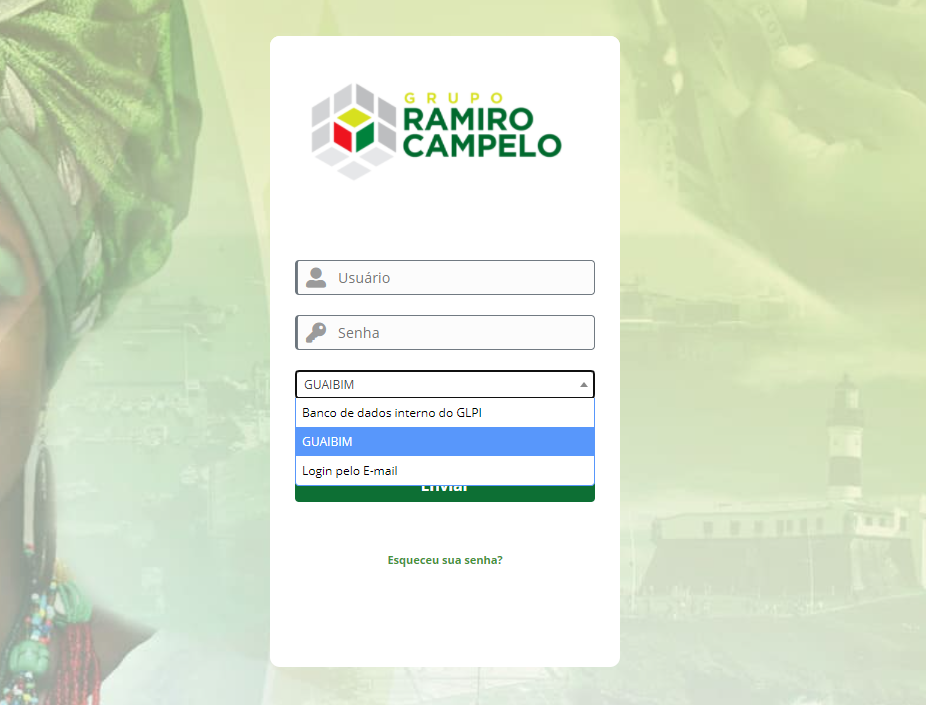
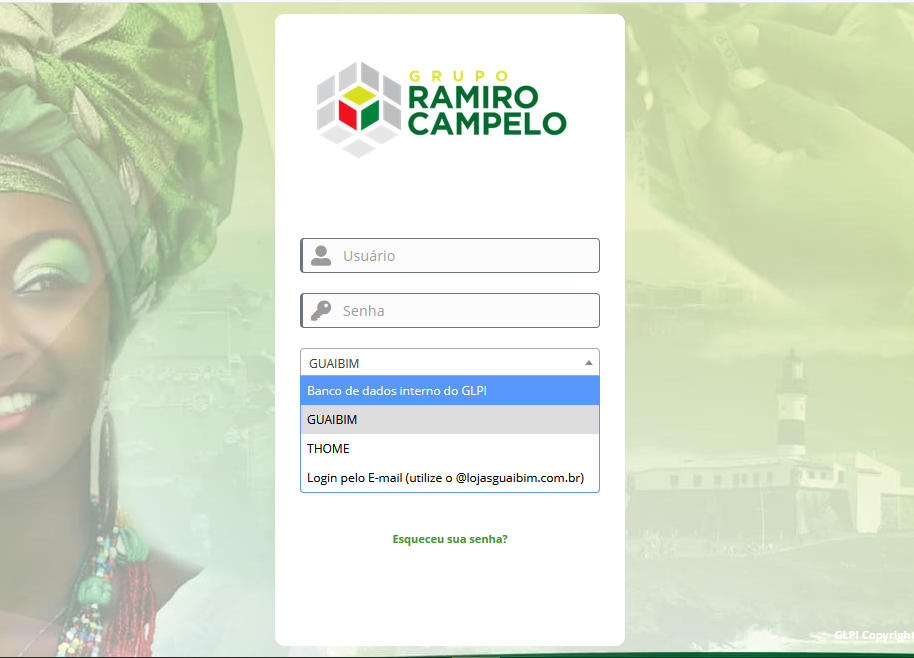
new changes

diff --git a/index.html b/index.html
@@ -157,7 +157,7 @@
 
         <p>
           Para fazer o acesso ao GLPI o usuário deverá acessar digitando IP
-          <a href="http://10.99.2.7/" class="link__body" target="_blank">http://10.99.2.7/</a>
+          <a href="http://10.99.1.19/" class="link__body" target="_blank">http://10.99.1.19/</a>
           em seu navegador.
         </p>
       </section>
@@ -168,7 +168,7 @@
       <section id="section-2">
         <h2 id="login">Login:</h2>
 
-        <p>Ao fazer o acesso o usuário terá até três opções de login:</p>
+        <p>Ao fazer o acesso o usuário terá até quatro opções de login:</p>
 
         <p>
           <img src="images/01Login.png" alt="Login" class="images" />
@@ -185,8 +185,15 @@
             Usado por todos os usuários com seu login GEMCO
           </blockquote>
 
+          <strong>
+            <li class="contrast-2">THOME</li>
+          </strong>
+          <blockquote>
+            Usado por todos os usuários com o mesmo login de usuário da máquina
+          </blockquote>
+
           <li>Login por E-mail.</li>
-          <blockquote>Para quem não possui usuário GEMCO.</blockquote>
+          <blockquote>Para quem não possui usuário GEMCO ou THOME.</blockquote>
         </ol>
         <br />
       </section>

diff --git a/style.css b/style.css
@@ -10,6 +10,7 @@
   --h2-line-bottom: rgba(128, 128, 128, 0.33);
   --ul-ol-color: #6d6d6d;
   --contrast-color: #ff6a13;
+  --contrast2-color: #1371ff;
   --code-color: rgba(0, 0, 0, 0.082);
   --link-color: rgb(98, 185, 255);
 }
@@ -17,13 +18,14 @@
 [data-theme="dark"] {
   --body-bg: #1b1b1b;
   --blockquote-color: rgba(255, 255, 255, 0.233);
-  --blockquote-text: #ebebeb;
+  --blockquote-text: rgba(235, 235, 235, 0.507);
   --blockquote-paragraph: rgba(255, 255, 255, 0.705);
   --hr-color: #4d4d4d;
   --font-color: rgba(255, 255, 255, 0.842);
   --h2-line-bottom: rgba(99, 99, 99, 0.33);
-  --ul-ol-color: rgba(255, 255, 255, 0.562);
+  --ul-ol-color: rgba(255, 255, 255, 0.938);
   --contrast-color: rgba(72, 255, 154, 0.904);
+  --contrast2-color: rgba(188, 72, 255, 0.904);
   --code-color: rgba(226, 226, 226, 0.247);
   --link-color: rgb(98, 185, 255);
 }
@@ -248,6 +250,12 @@ ol.list__number {
 .contrast {
   /* font-size: 1.4rem; */
   color: var(--contrast-color);
+  font-weight: 900;
+}
+
+.contrast-2 {
+  /* font-size: 1.4rem; */
+  color: var(--contrast2-color);
   font-weight: 900;
 }
 

diff --git a/readme.md b/readme.md
@@ -54,7 +54,7 @@ O **GLPI** é uma aplicação de gestão de serviços e gerenciamento de ativos 
 
 # Página Inicial
 
-Para fazer o acesso ao GLPI o usuário deverá acessar digitando IP [http://10.99.2.7/](http://10.99.2.7/) em seu navegador.
+Para fazer o acesso ao GLPI o usuário deverá acessar digitando IP [http://10.99.1.19/](http://10.99.1.19/) em seu navegador.
 
 ## Login:
 
